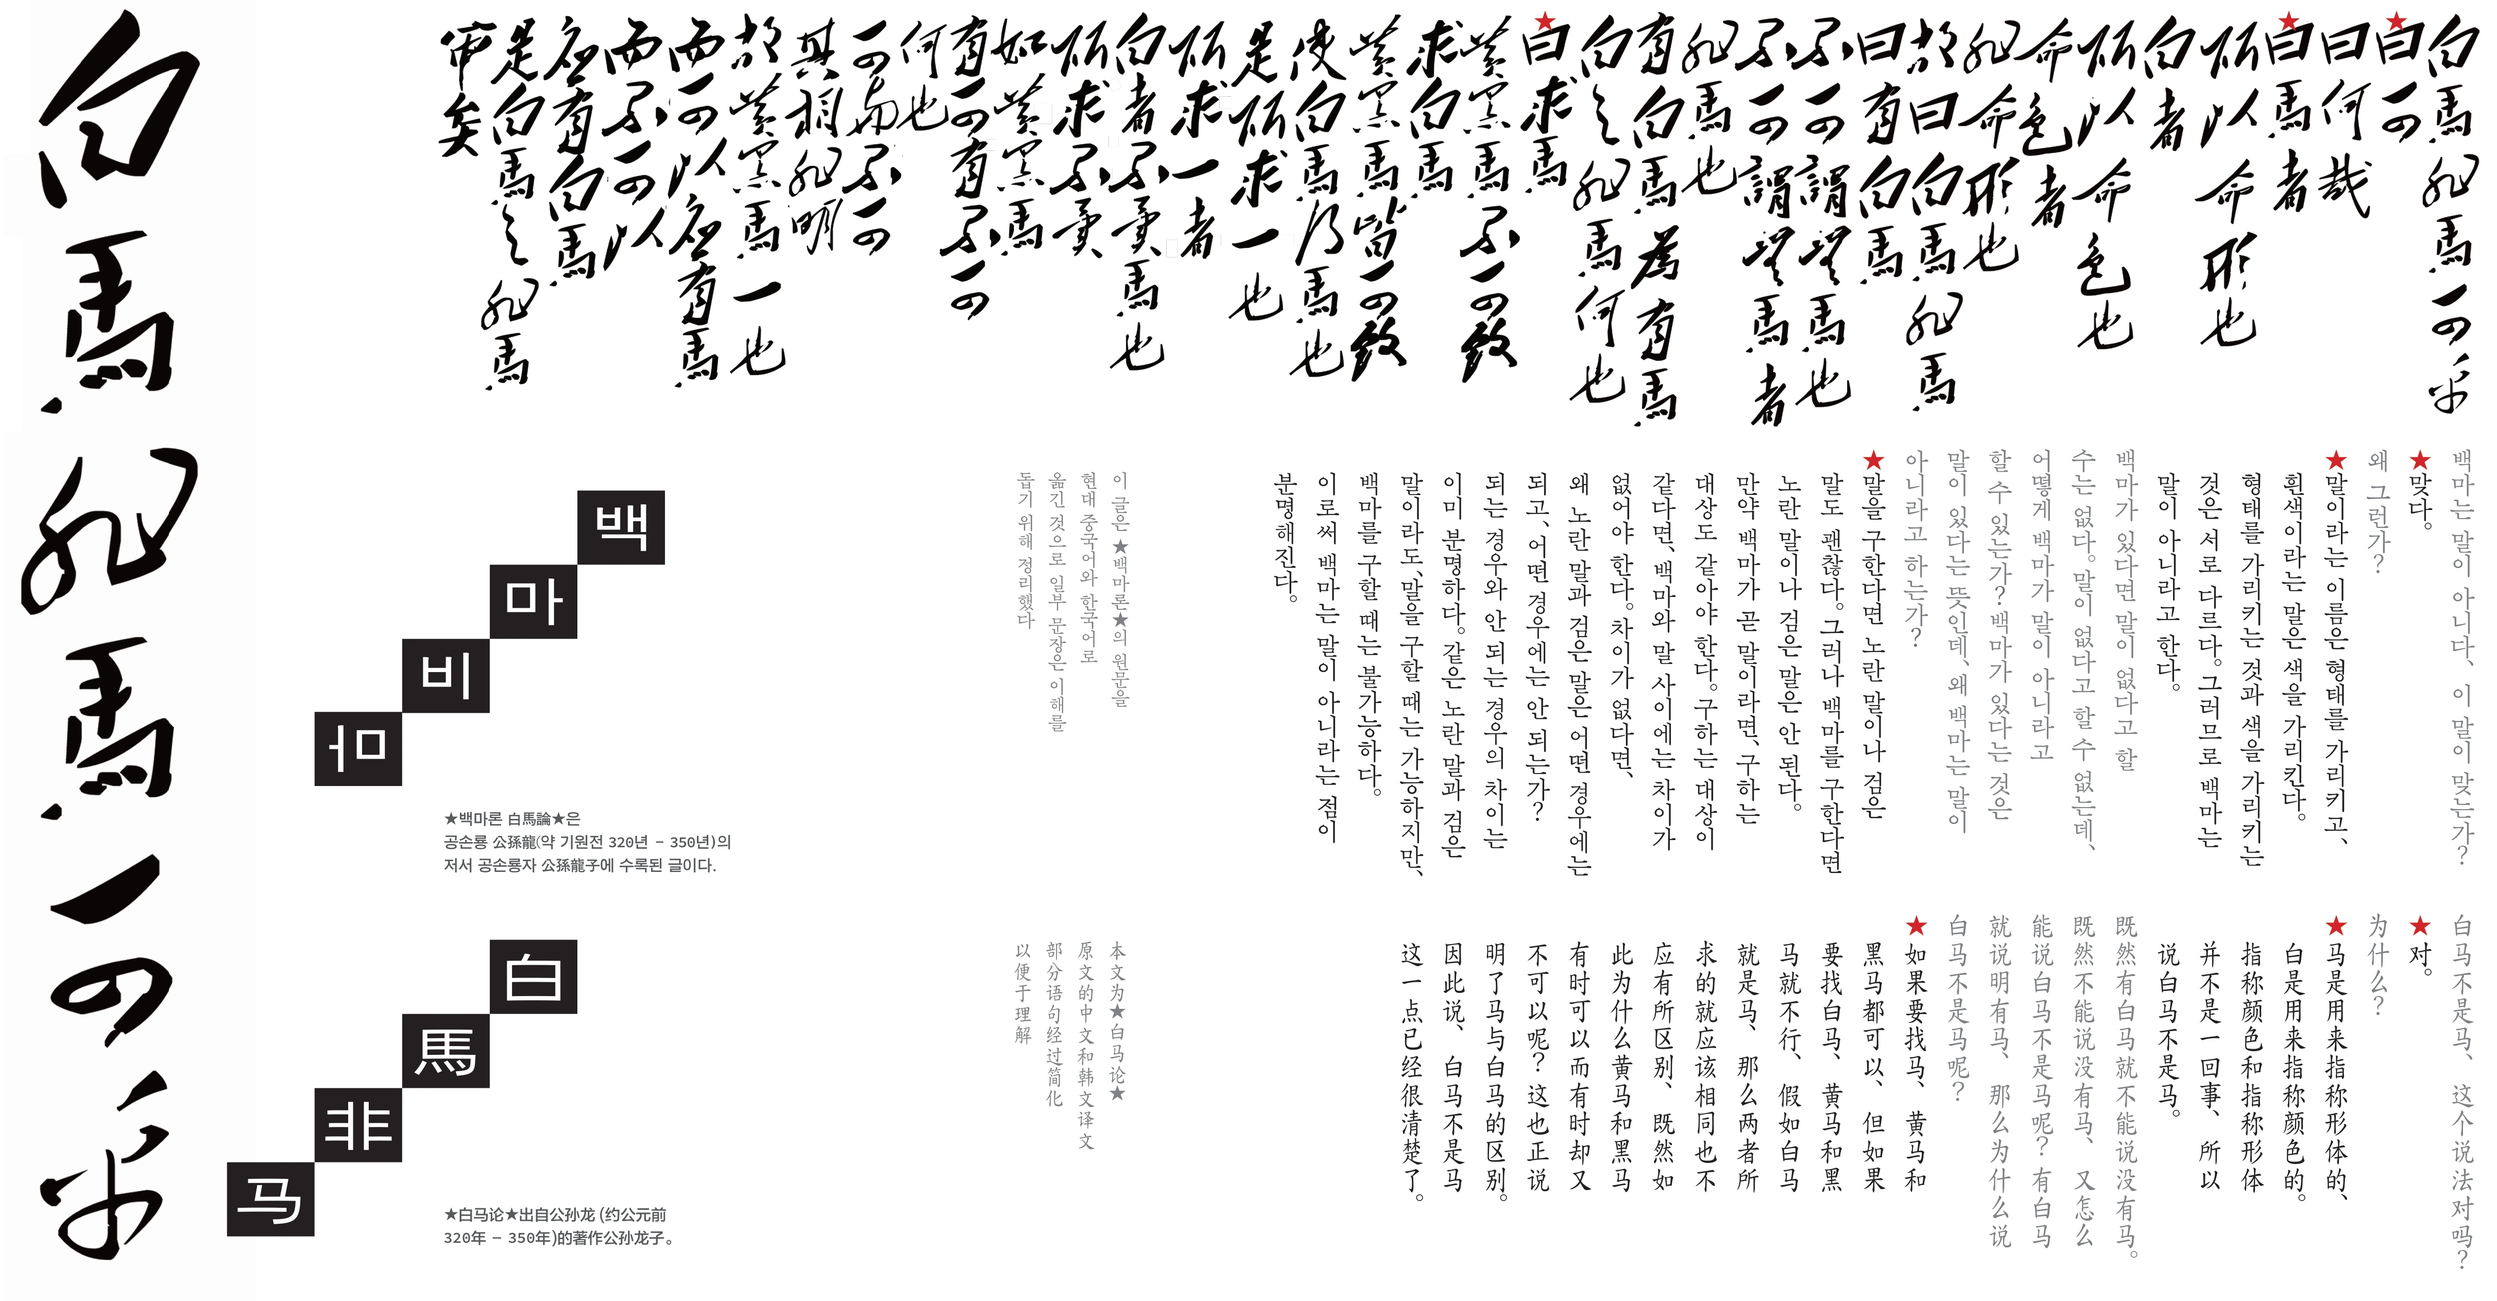
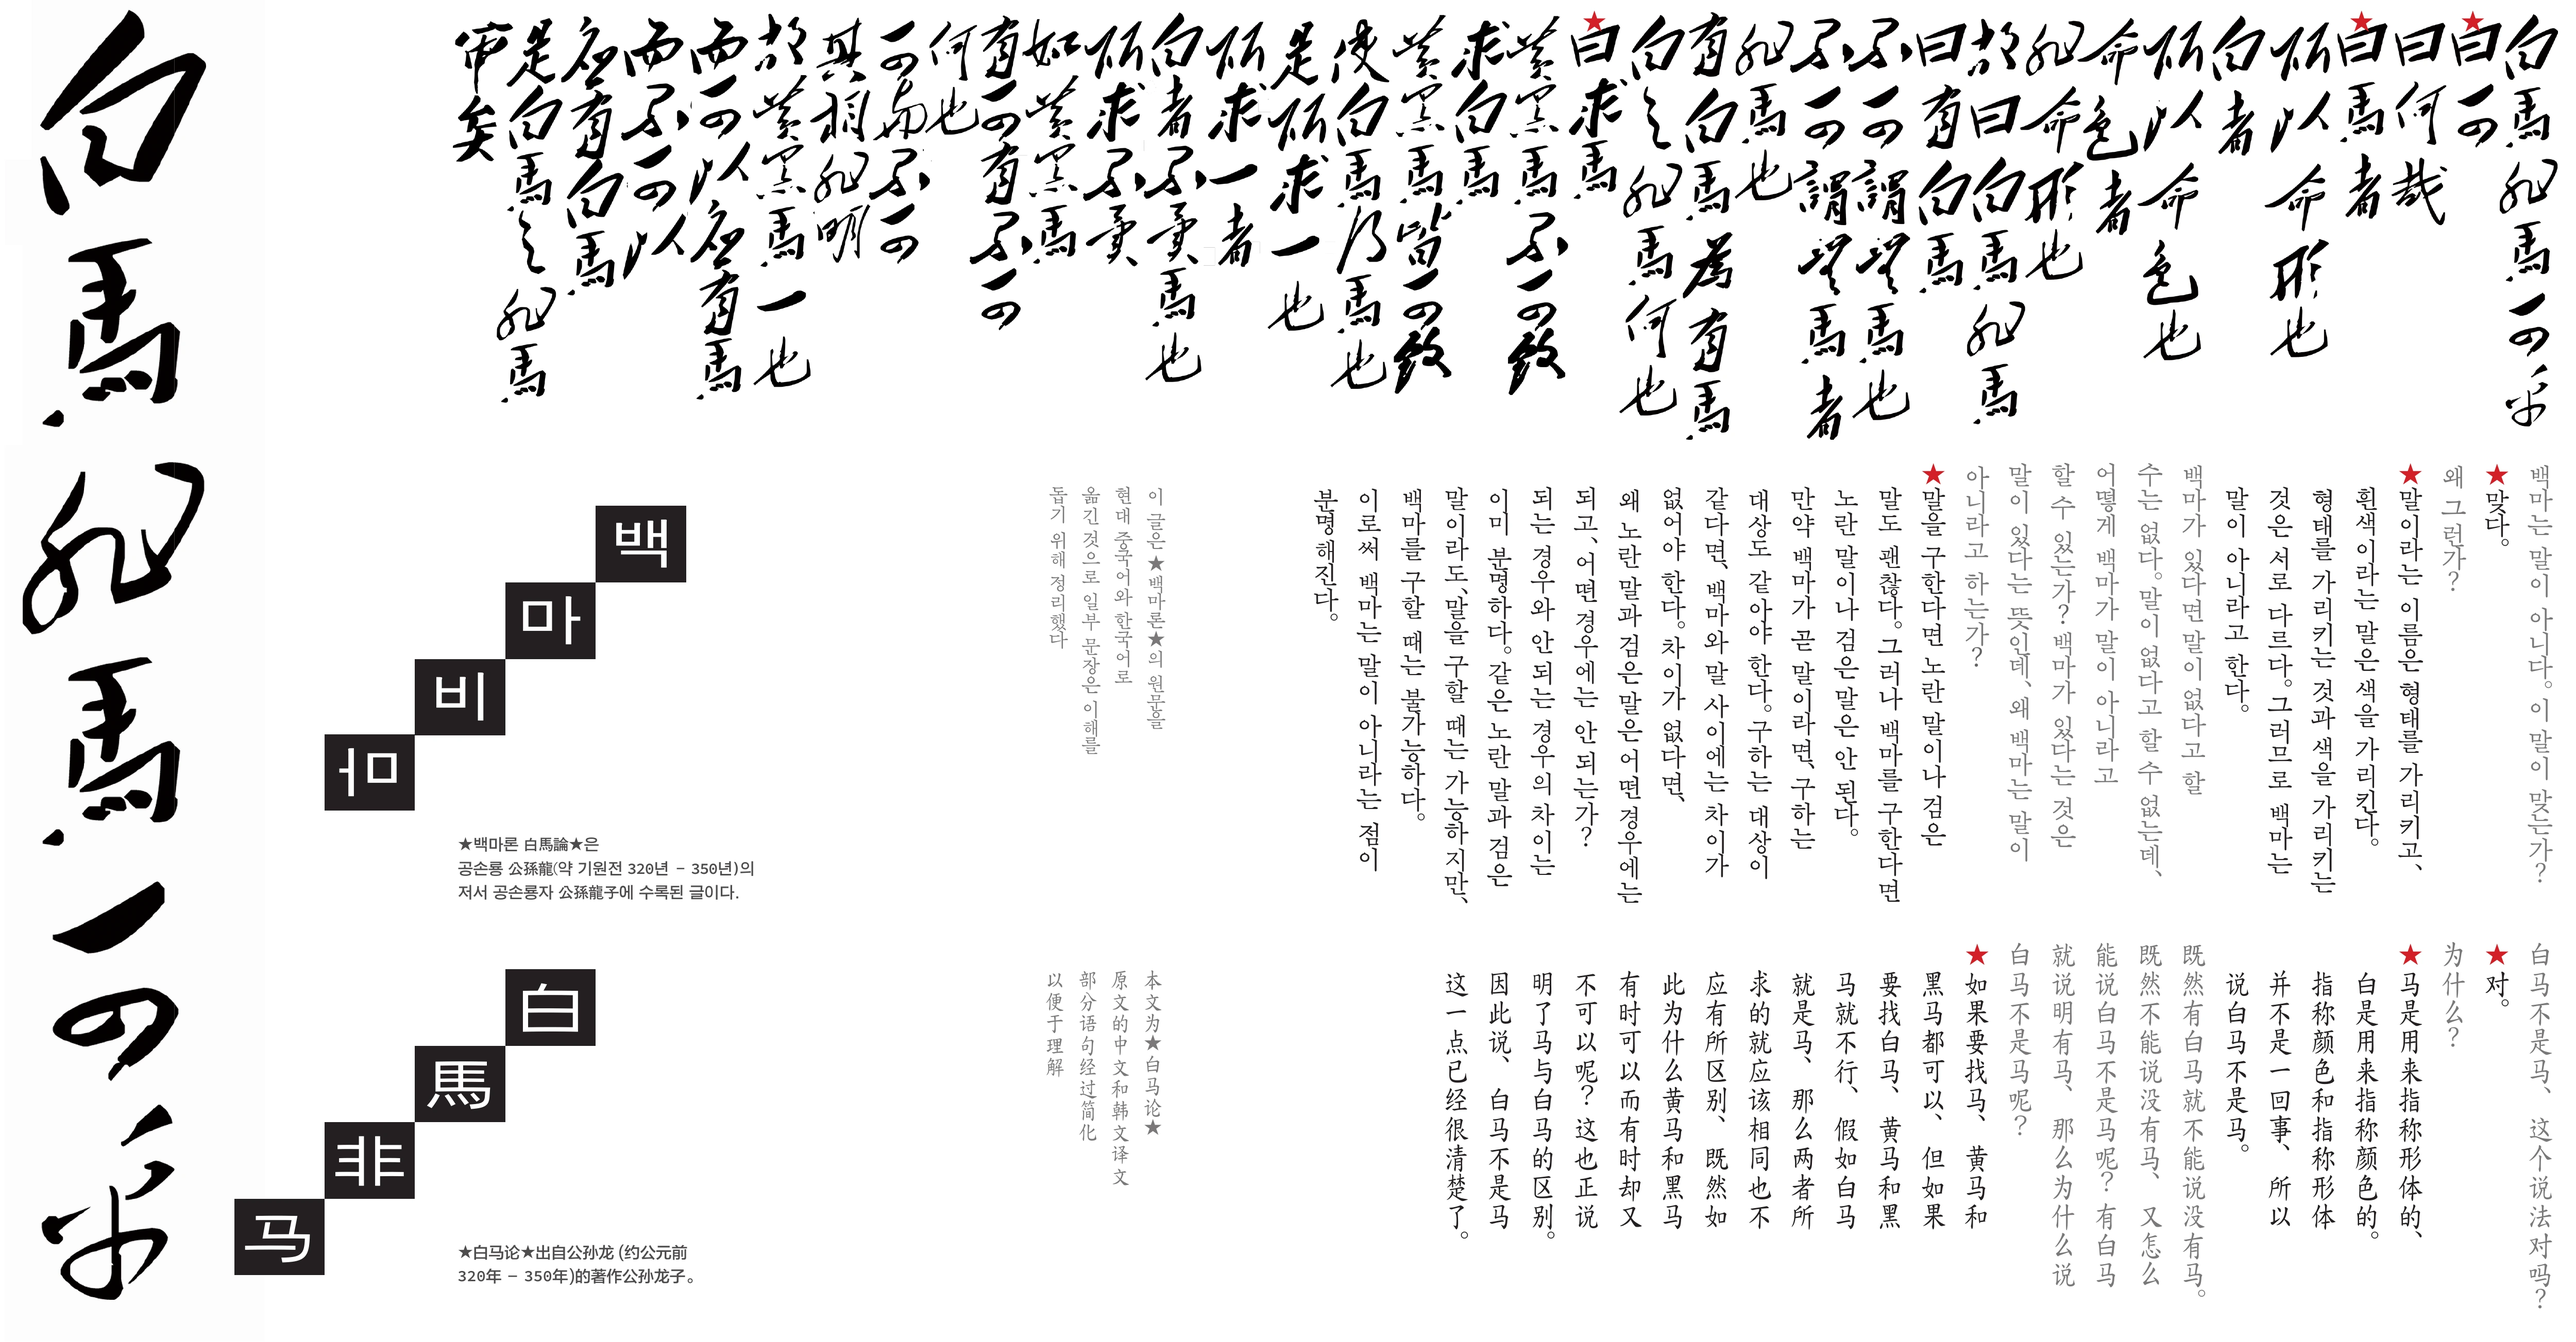
Add files via upload

diff --git a/index.html b/index.html
@@ -2,31 +2,26 @@
 <html lang="zh">
 <head>
 <meta charset="utf-8">
-<meta name="viewport" content="width=device-width, initial-scale=1, maximum-scale=1, user-scalable=no, viewport-fit=cover">
-<meta name="theme-color" content="#ffffff">
-<title>白馬非馬</title>
+<meta name="viewport" content="width=device-width,initial-scale=1,maximum-scale=5,viewport-fit=cover">
+<title>白马非马 | 백마비마</title>
 <style>
-  * { box-sizing: border-box; }
-  html, body { margin:0; padding:0; width:100%; height:100%; overflow:hidden; background:#fff; overscroll-behavior:none; }
-  #reader { width:100%; height:100%; height:100dvh; overflow-x:auto; overflow-y:hidden; touch-action:pan-x; overscroll-behavior-x:contain; scrollbar-width:none; -webkit-overflow-scrolling:touch; }
-  #reader::-webkit-scrollbar { display:none; }
-  #scroll { display:block; width:auto; height:100%; max-width:none; user-select:none; -webkit-user-select:none; -webkit-user-drag:none; pointer-events:none; }
+html,body{margin:0;width:100%;height:100%;overflow:hidden;background:#fff}
+#viewer{position:fixed;inset:0;overflow-x:auto;overflow-y:hidden;overscroll-behavior:contain;-webkit-overflow-scrolling:touch;touch-action:pan-x;scrollbar-width:none}
+#viewer::-webkit-scrollbar{display:none}
+#art{display:block;height:100%;width:auto;max-width:none;user-select:none;-webkit-user-drag:none}
 </style>
 </head>
 <body>
-<div id="reader" aria-label="白馬非馬，從右向左閱讀的橫向長卷"><img id="scroll" src="images/scroll.webp" alt="白馬非馬 中韓文長卷" draggable="false"></div>
+<main id="viewer" aria-label="白马非马，向右滑动阅读长卷"><img id="art" src="images/scroll.webp" alt="白马非马，白马论现代中文与韩文解释" draggable="false"></main>
 <script>
 (function(){
- const reader=document.getElementById('reader');
- const image=document.getElementById('scroll');
- let started=false;
- function toStart(){reader.scrollLeft=reader.scrollWidth-reader.clientWidth;}
- function ready(){if(!started){started=true;requestAnimationFrame(()=>requestAnimationFrame(toStart));}}
- if(image.complete) ready(); else image.addEventListener('load',ready,{once:true});
- window.addEventListener('pageshow',function(e){if(e.persisted) return; toStart();});
- window.addEventListener('load',ready,{once:true});
- document.addEventListener('gesturestart',function(e){e.preventDefault();},{passive:false});
- document.addEventListener('gesturechange',function(e){e.preventDefault();},{passive:false});
+ const viewer=document.getElementById('viewer'),art=document.getElementById('art');
+ let first=true;
+ function right(){viewer.scrollLeft=viewer.scrollWidth-viewer.clientWidth;}
+ function init(){if(first){right();requestAnimationFrame(right);first=false;}}
+ art.addEventListener('load',init);
+ if(art.complete&&art.naturalWidth)init();
+ window.addEventListener('resize',()=>{if(viewer.scrollLeft>=viewer.scrollWidth-viewer.clientWidth-20)right()});
 })();
 </script>
 </body>
